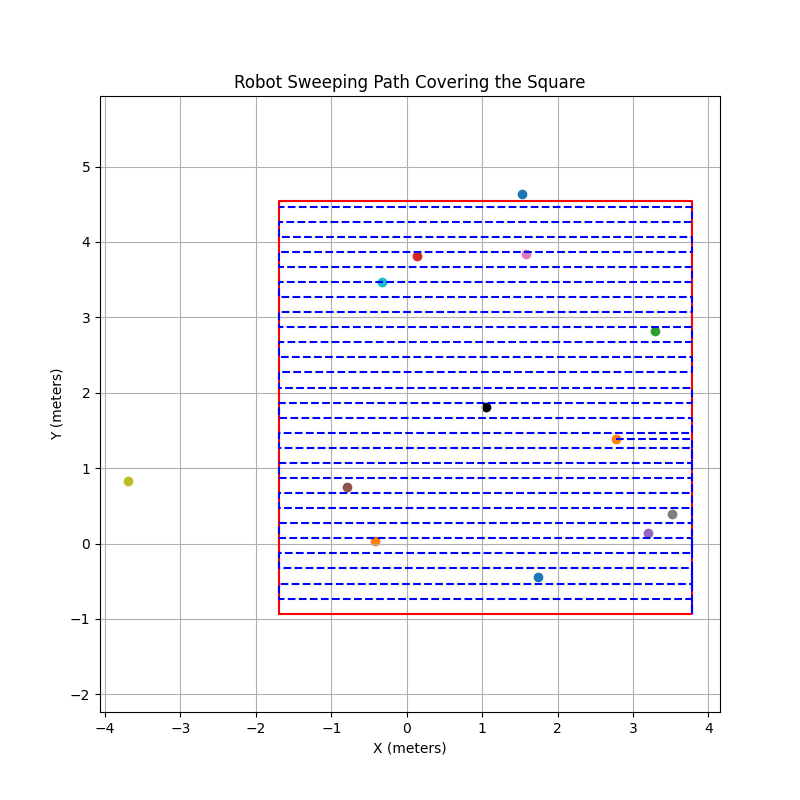
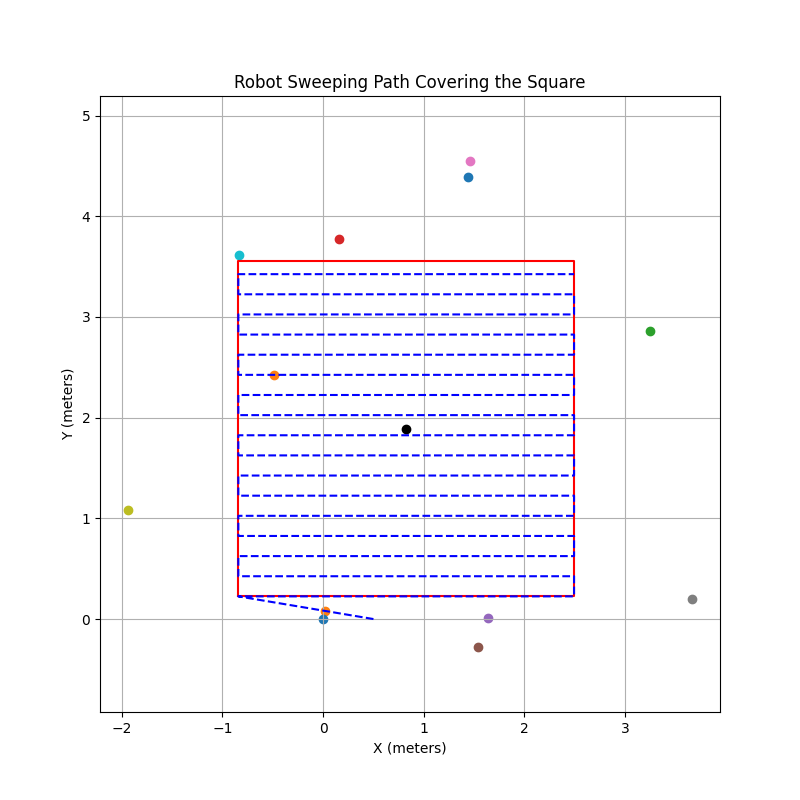
square sweeping almost (square is offset)

diff --git a/rb5_control/src/hw5_square.py b/rb5_control/src/hw5_square.py
@@ -1,20 +1,9 @@
+    # Updated coordinates
+
 import matplotlib.pyplot as plt
 import numpy as np
 
-    # Updated coordinates
-    # object_coords = [
-    #     (0, -0.2, "bottle"),
-    #     (2.1, 0, "stop sign"),
-    #     (2.1, 1.5, "potted plant"),
-    #     (1.4, -0.3, "teddy bear"),
-    #     (-0.7, 0.2, "umbrella"),
-    #     (-0.4, 1.3, "keyboard"),
-    #     (-0.2, 1.9, "suitcase"),
-    #     (1.3, 1.6, "laptop")
-    # ]
-
-def make_square(object_coords):
-
+def make_square(object_coords, robot_width=0.17, robot_height=0.20, start_x=0.5, start_y=0.0):
     # Extract x and y coordinates
     x_coords = np.array([coord[0] for coord in object_coords])
     y_coords = np.array([coord[1] for coord in object_coords])
@@ -64,7 +53,43 @@ def make_square(object_coords):
     square_end_x = square_start_x + square_side
     square_end_y = square_start_y + square_side
 
-    # Plot the points and the adjusted square
+    # Find the nearest corner of the square to the start point (0, 0)
+    corners = [
+        (square_start_x, square_start_y),
+        (square_end_x, square_start_y),
+        (square_start_x, square_end_y),
+        (square_end_x, square_end_y),
+    ]
+    nearest_corner = min(corners, key=lambda c: np.hypot(c[0] - start_x, c[1] - start_y))
+
+    # Define the robot's back-and-forth sweeping path (Roomba-like)
+    robot_path = [(start_x, start_y), nearest_corner]  # Start at (0,0) and move to nearest corner
+    current_x, current_y = nearest_corner
+    direction = 1  # 1 for right, -1 for left
+    step_y = robot_height  # The y-step is based on the height of the robot
+
+
+    while current_y <= square_end_y:
+        # Move along the x-axis
+        if direction == 1:  # Move right
+            robot_path.append((square_end_x, current_y))
+        else:  # Move left
+            robot_path.append((square_start_x, current_y))
+        
+        # After reaching one side, move up by the width of the robot and reverse direction
+        current_y += step_y
+        if current_y <= square_end_y:  # Add only if within bounds
+            robot_path.append((robot_path[-1][0], current_y))  # Move up in y direction
+        
+        # Switch direction for next horizontal movement
+        direction *= -1
+
+    # Print robot path points where the direction changes
+    print("Robot direction change points:")
+    for point in robot_path:
+        print(point)
+
+    # Plot the points, the adjusted square, and the robot's sweeping path
     plt.figure(figsize=(8, 8))
     for x, y, label in object_coords:
         plt.scatter(x, y, label=label)
@@ -74,25 +99,23 @@ def make_square(object_coords):
     square_y = [square_start_y, square_start_y, square_end_y, square_end_y, square_start_y]
     plt.plot(square_x, square_y, 'r-', label='Largest Square')
 
+    # Draw the robot's path
+    robot_x = [p[0] for p in robot_path]
+    robot_y = [p[1] for p in robot_path]
+    plt.plot(robot_x, robot_y, 'b--', label='Robot Path')
+
     # Mark the center point
     plt.scatter(center_x, center_y, color='black', label='Center Point (Centroid)')
 
-    # Plot quadrant lines
-    plt.plot([center_x, center_x + 2], [center_y, center_y + 2], 'k--')  # 45 degrees
-    plt.plot([center_x, center_x - 2], [center_y, center_y + 2], 'k--')  # 135 degrees
-    plt.plot([center_x, center_x - 2], [center_y, center_y - 2], 'k--')  # 225 degrees
-    plt.plot([center_x, center_x + 2], [center_y, center_y - 2], 'k--')  # 315 degrees
-
     # Plot aesthetics
-    # plt.legend()
-    plt.title("Largest Square Fit Using Quadrants")
+    plt.title("Robot Sweeping Path Covering the Square")
     plt.xlabel("X (meters)")
     plt.ylabel("Y (meters)")
     plt.grid(True)
     plt.axis('equal')
 
     # Save the plot as a PNG file
-    plt.savefig("square.png")
+    plt.savefig("robot_sweeping_path.png")
     plt.show()
 
     # Output dimensions
@@ -100,5 +123,5 @@ def make_square(object_coords):
     print(f"Square center point: ({center_x}, {center_y})")
     print(f"Square coordinates: ({square_start_x}, {square_start_y}) to ({square_end_x}, {square_end_y})")
 
-# Test local
-# make_square([(2.2822766304016113, 4.08355188369751, 'laptop'), (-0.38436222076416016, 0.5081926584243774, 'bottle'), (3.153132915496826, 2.7433860301971436, 'potted plant'), (-0.6404055953025818, -0.3099810779094696, 'suitcase'), (-1.734462022781372, 1.1050945520401, 'umbrella'), (2.3787856101989746, -0.39087170362472534, 'teddy bear'), (2.4763317108154297, 4.186304569244385, 'keyboard'), (3.0441253185272217, -0.12209747731685638, 'stop sign')])
+# Test local with object coordinates
+# make_square([(1.123410701751709, 3.786043405532837, 'laptop'), (-0.18596267700195312, 0.21542099118232727, 'bottle'), (3.3864262104034424, 2.8606085777282715, 'potted plant'), (0.3437591791152954, 3.9257864952087402, 'suitcase'), (1.373099684715271, 0.6129531264305115, 'umbrella'), (-0.8698845505714417, 0.7219505906105042, 'teddy bear'), (1.3916902542114258, 4.341032981872559, 'keyboard'), (3.0175771713256836, -0.2616259753704071, 'stop sign'), (-2.8316409587860107, 1.4042980670928955, 'bicycle'), (-0.3431287407875061, 3.56701397895813, 'bowl'), (0.0, 0.0, 'scissors'), (-1.1141973733901978, 2.5057241916656494, 'backpack')])

diff --git a/rb5_control/src/hw3_slam.py b/rb5_control/src/hw3_slam.py
@@ -186,7 +186,7 @@ class SlamControlNode(Node):
 
         print("\nx and y values:")
         print(x, y)
-        make_square(self.detected_objects[-12:], 0.17, 0.20, 0, 0)
+        make_square(self.detected_objects[-12:])
         self.done_pub.publish(msg)
 
     def save_plot(self):
@@ -256,7 +256,7 @@ class SlamControlNode(Node):
         self.movement_pub.publish(state_msg)
 
         turn_twist = Twist()
-        turn_twist.angular.z = 8.3
+        turn_twist.angular.z = 8.6
         self.twist_pub.publish(turn_twist)
         time.sleep(np.pi / 2)
         turn_twist.angular.z = 0.0
@@ -275,7 +275,7 @@ class SlamControlNode(Node):
         self.movement_pub.publish(state_msg)
 
         turn_twist = Twist()
-        turn_twist.angular.z = 8.3
+        turn_twist.angular.z = 8.6
         self.twist_pub.publish(turn_twist)
         time.sleep(np.pi / 4)
         turn_twist.angular.z = 0.0

diff --git a/rb5_ros2_vision/launch/yolo_detection_node.py b/rb5_ros2_vision/launch/yolo_detection_node.py
@@ -23,11 +23,11 @@ class YoloDetectionNode(Node):
             'bottle': 0.05,
             'potted plant': 0.15,
             'suitcase': 0.3,
-            'umbrella': 1.0,
+            'umbrella': 0.5,
             'teddy bear': 0.2,
             'keyboard': 0.4,
             'stop sign': 0.2,
-            'bicycle': 1.47,
+            'bicycle': 0.5,
             'bowl': 0.3,
             'scissors': 0.1,
             'backpack': 0.38

diff --git a/rb5_control/src/hw3_move.py b/rb5_control/src/hw3_move.py
@@ -85,7 +85,8 @@ class MovementCommands(Node):
             ['spin', 45],
             ['move', 0.5],
             ['move', 0.5],
-            ['spin', 45],
+            ['move', 0.5],
+            ['spin', 45]
         ]
         self.step_counter = -1
 
